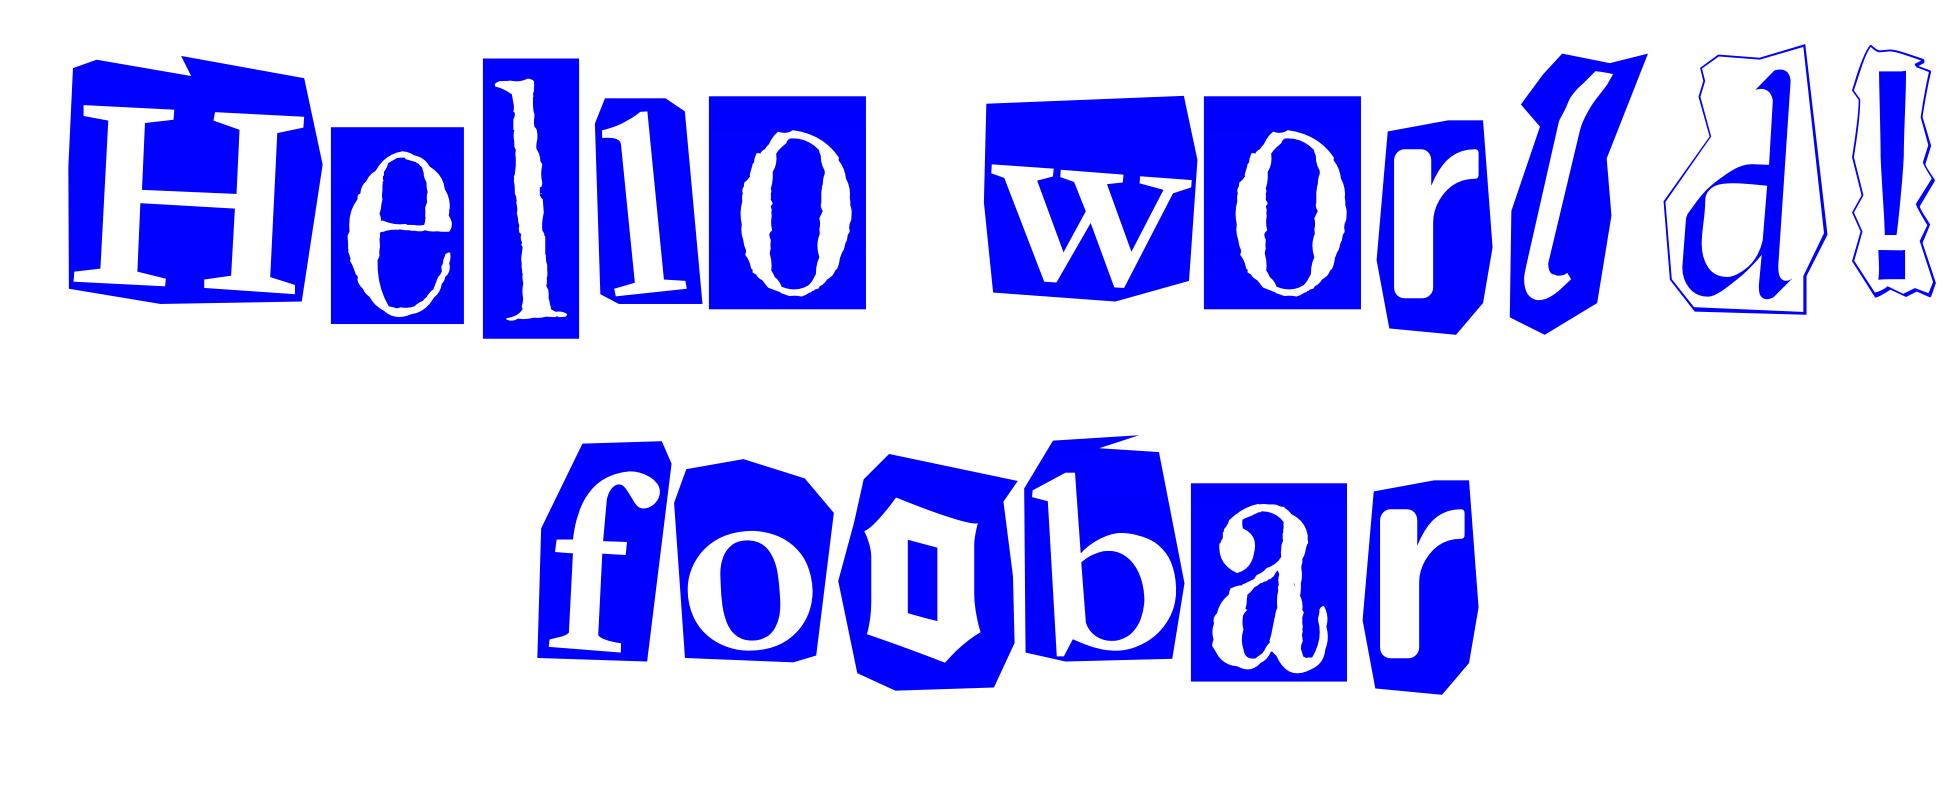
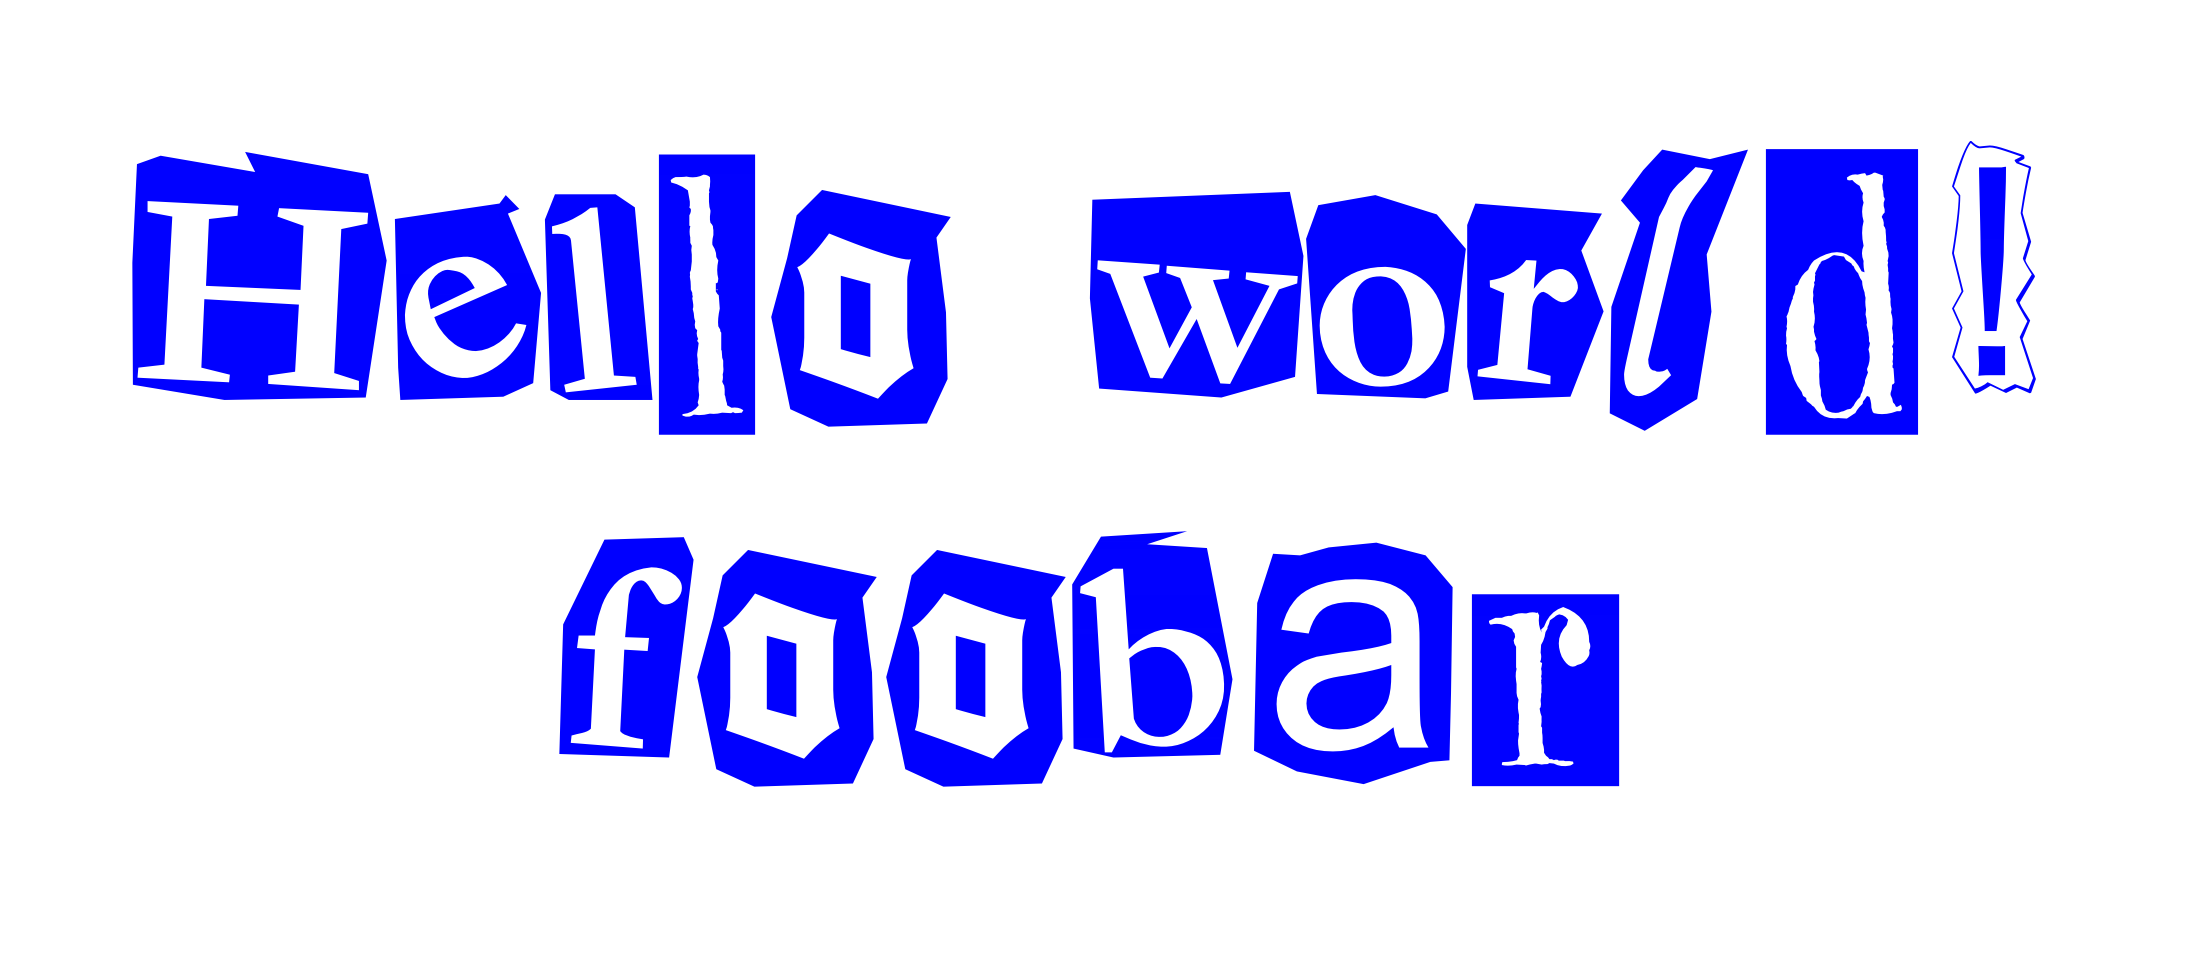
fixed centering math

Changed region(s): [[0.249, 0.5496, 0.7781, 0.8855], [0.498, 0.0611, 0.9959, 0.458], [0.0311, 0.0611, 0.4668, 0.458]]

diff --git a/src/main.rs b/src/main.rs
@@ -2,10 +2,11 @@ use ab_glyph::{FontRef, PxScale};
 use imageproc::image::{Rgba, RgbaImage};
 use imageproc::drawing::{draw_text_mut, text_size};
 use rand::Rng;
+use std::cmp;
 
 fn main() {
 	let render_me = "Hello world!\nfoobar";
-	let padding: i32 = 32; // pixels
+	let padding: i32 = 128; // pixels
     let height = 360.0;
     let scale = PxScale {
         x: height,
@@ -25,7 +26,8 @@ fn main() {
 
 	let mut lines: Vec<&str> = render_me.split('\n').collect();
 	let mut font_indices: Vec<Vec<u8>> = Vec::new(); // which font for each character
-	let mut widths: Vec<u32> = Vec::new(); 
+	let mut largest_width = 0;
+	let mut widths: Vec<u32> = Vec::new();
 	for line in &lines {
 		let mut line_indices: Vec<u8> = Vec::new();
 		let mut line_width = 0;
@@ -36,14 +38,12 @@ fn main() {
 		}
 		font_indices.push(line_indices);
 		widths.push(line_width);
+		largest_width = cmp::max(largest_width, line_width);
 	}
 	println!("{:?}\n{:?}\n{:?}", &lines, &font_indices, &widths);
 
-	let h = ((height+1.0) as i32 * lines.len() as i32) + (padding * 2);	
-	let canvas_width: u32 = match widths.iter().max() {
-		Some(w) => *w + (padding as u32 * 2),
-		None => panic!("no width"),
-	};
+	let h = ((height+1.0) as i32 * lines.len() as i32) + (padding * 2);
+	let canvas_width: u32 = largest_width + (padding as u32 * 2);
 	let mut image = RgbaImage::new(
 		canvas_width, 
 		u32::try_from(h).unwrap()
@@ -53,7 +53,7 @@ fn main() {
 	let (mut x, mut y) = (padding, padding);
 	for i in 0..lines.len() {
 		let line = lines[i];
-		x = padding + ((canvas_width - widths[i])/2) as i32;
+		x = padding + ((largest_width - widths[i])/2) as i32;
 		for j in 0..line.len() {
 			let char_as_string = line.chars().nth(j).unwrap().to_string();
 			let font = &fonts[font_indices[i as usize][j as usize] as usize].1;
